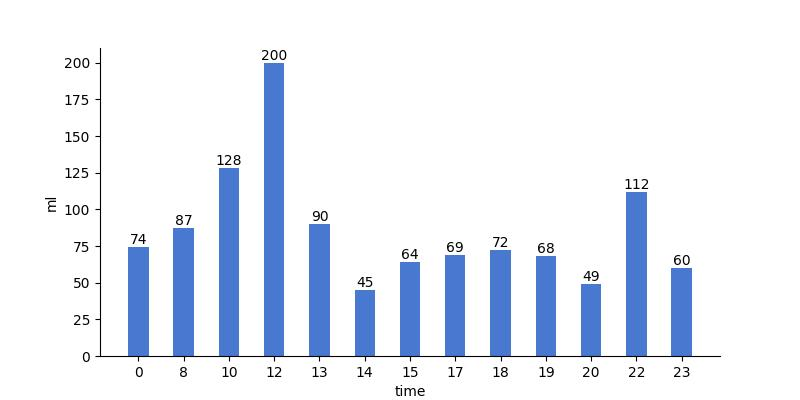
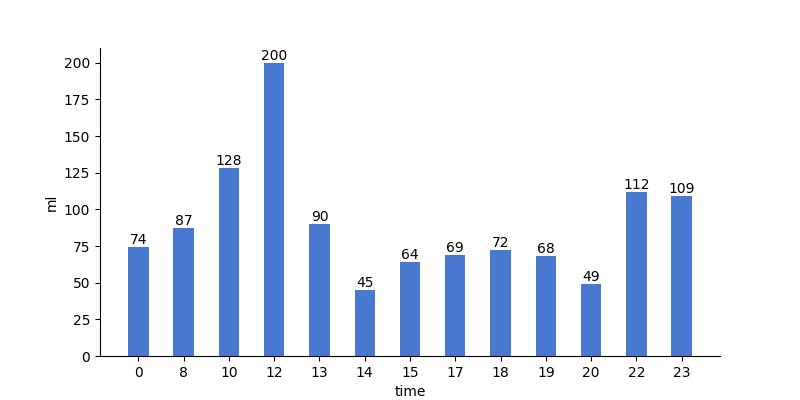
generated readme

Changed region(s): [[0.8125, 0.45, 0.875, 0.69]]

diff --git a/README.md b/README.md
@@ -5,12 +5,12 @@
 
 | 今日总饮水量 | 每小时平均饮水量 |
 | :----: | :----: |
-| 1118 | 86 |
+| 1167 | 89 |
 </div>
 
-| 日期 | 00:36:14 | 08:02:40 | 10:15:23 | 12:17:49 | 13:06:28 | 14:23:55 | 15:11:45 | 17:47:54 | 18:44:16 | 19:44:29 | 20:39:20 | 22:03:26 | 22:33:19 | 23:03:38 |
-| :----: | :----: | :----: | :----: | :----: | :----: | :----: | :----: | :----: | :----: | :----: | :----: | :----: | :----: | :----: |
-| 2022-10-26 | 74 | 87 | 128 | 200 | 90 | 45 | 64 | 69 | 72 | 68 | 49 | 44 | 68 | 60 |
+| 日期 | 00:36:14 | 08:02:40 | 10:15:23 | 12:17:49 | 13:06:28 | 14:23:55 | 15:11:45 | 17:47:54 | 18:44:16 | 19:44:29 | 20:39:20 | 22:03:26 | 22:33:19 | 23:03:38 | 23:40:19 |
+| :----: | :----: | :----: | :----: | :----: | :----: | :----: | :----: | :----: | :----: | :----: | :----: | :----: | :----: | :----: | :----: |
+| 2022-10-26 | 74 | 87 | 128 | 200 | 90 | 45 | 64 | 69 | 72 | 68 | 49 | 44 | 68 | 60 | 49 |
 
 # 近30日饮水数据
 
